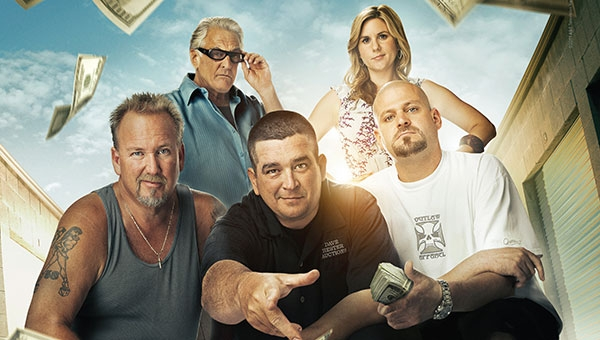
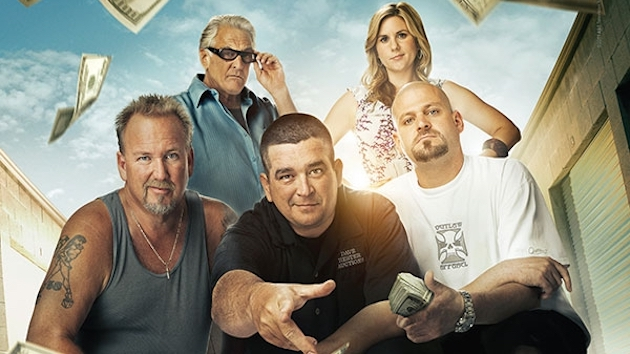
>Add show hero component and set active state

diff --git a/src/App.js b/src/App.js
@@ -1,17 +1,16 @@
 import React, { Component } from 'react'
 import styled, { createGlobalStyle } from 'styled-components'
 import Card from './components/Card'
+import ShowHero from './components/ShowHero'
 import fetchChannels from './lib/channel-fetcher'
 import fetchShows from './lib/show-fetcher'
 import embellishShowWithChannelDetails from './lib/show-embellisher'
-import cardImg from './assets/img/card.png'
 
 const GlobalStyle = createGlobalStyle`
   html, body, #root {
-    padding: 0;
     margin: 0;
     font-family: sans-serif;
-    height: 100%;
+    background-color: #fafafa;
   }
 `
 
@@ -21,7 +20,6 @@ const AppContainer = styled.div`
 `
 
 const AppHeader = styled.div`
-  background-color: #d1daec;
   display: flex;
   flex-direction: column;
   align-items: center;
@@ -34,36 +32,56 @@ const Title = styled.h1`
   font-size: 1.5em;
 `
 
-const Container = styled.div`
+const CardContainer = styled.div`
   background-image: url('./img/${props => props.img }');
   background-size: cover;
-  /* min-height: 160px; */
-  /* max-height: 250px; */
-  /* height: 100%; */
+  margin-bottom: 15px;
 `
 
 const Shows = styled.div`
+  margin-top: 30px;
   display: flex;
   justify-content: space-around;
-
+  flex-wrap: wrap;
 `
 
 class App extends Component {
+  constructor(props) {
+    super(props)
+    this.state = {
+      activeShow: {},
+      shows: fetchShows()
+    }
+
+    this.handleShowClick = this.handleShowClick.bind(this)
+  }
+
+  componentWillMount() {
+    this.setState({
+      activeShow: this.state.shows[0]
+    })
+  }
+
+  handleShowClick(show) {
+    this.setState({
+      activeShow: show
+    })
+  }
+
   render() {
     const channels = fetchChannels()
-    const shows = fetchShows()
-    const embellishedShows = embellishShowWithChannelDetails(shows, channels)
+    const embellishedShows = embellishShowWithChannelDetails(this.state.shows, channels)
     return (
       <AppContainer>
         <AppHeader>
-          <Title>Show Card</Title>
+          <Title>Show Case</Title>
         </AppHeader>
-        <img src={cardImg} alt="card" />
+        <ShowHero {...this.state.activeShow} />
         <Shows>
           { embellishedShows.map((show, i) => 
-            <Container id="container" img={show.image}>
-              <Card key={i} {...show} />
-            </Container>
+            <CardContainer id="container" img={show.image}>
+              <Card key={i} {...show} onClick={() => this.handleShowClick(show)} />
+            </CardContainer>
           )}
         </Shows>
         <GlobalStyle />

diff --git a/src/components/Card/index.js b/src/components/Card/index.js
@@ -2,13 +2,8 @@ import React from 'react'
 import styled from 'styled-components'
 
 const CardContainer = styled.div`
-  /* background-image: url('./img/${props => props.img }'); */
-  /* background-size: cover; */
   min-height: 175px;
-  /* height: 100%; */
   min-width: 315px;
-  /* max-width: 445px; */
-  /* flex: 1; */
   position: relative;
 `
 
@@ -24,7 +19,6 @@ const CardBanner = styled.div`
 const ChannelLogo = styled.div`
   flex: 1;
   width: 100%;
-  /* margin: auto; */
   padding: 5px 8px;
 `
 
@@ -43,15 +37,14 @@ const ShowTitle = styled.span`
 `
 
 const Card = (props) => {
-	console.log('TCL: Card -> props', props)
-  const { name, image, __channelDetails } = props
+  const { name, image, __channelDetails, onClick } = props
   const { id, logo } = __channelDetails
   const imgStyle = {
     maxWidth: '40px'
   }
   
   return (
-    <CardContainer img={image}>
+    <CardContainer img={image} onClick={onClick}>
       <CardBanner>
         <CardContents>
           <ChannelLogo>

diff --git a/src/components/ShowHero/index.js b/src/components/ShowHero/index.js
@@ -1,0 +1,22 @@
+import React from 'react'
+import styled from 'styled-components'
+
+const HeroContainer = styled.div`
+  margin-left: 5%;
+  margin-right: 5%;
+`
+
+const Hero = styled.img`
+  width: 100%;
+  max-width: 800px;
+`
+
+const ShowHero = ({ name, image, channel, __channelDetails }) => {
+  return (
+    <HeroContainer>
+      <Hero src={`./img/${image}`} alt={name} />
+    </HeroContainer>
+  )
+}
+
+export default ShowHero
